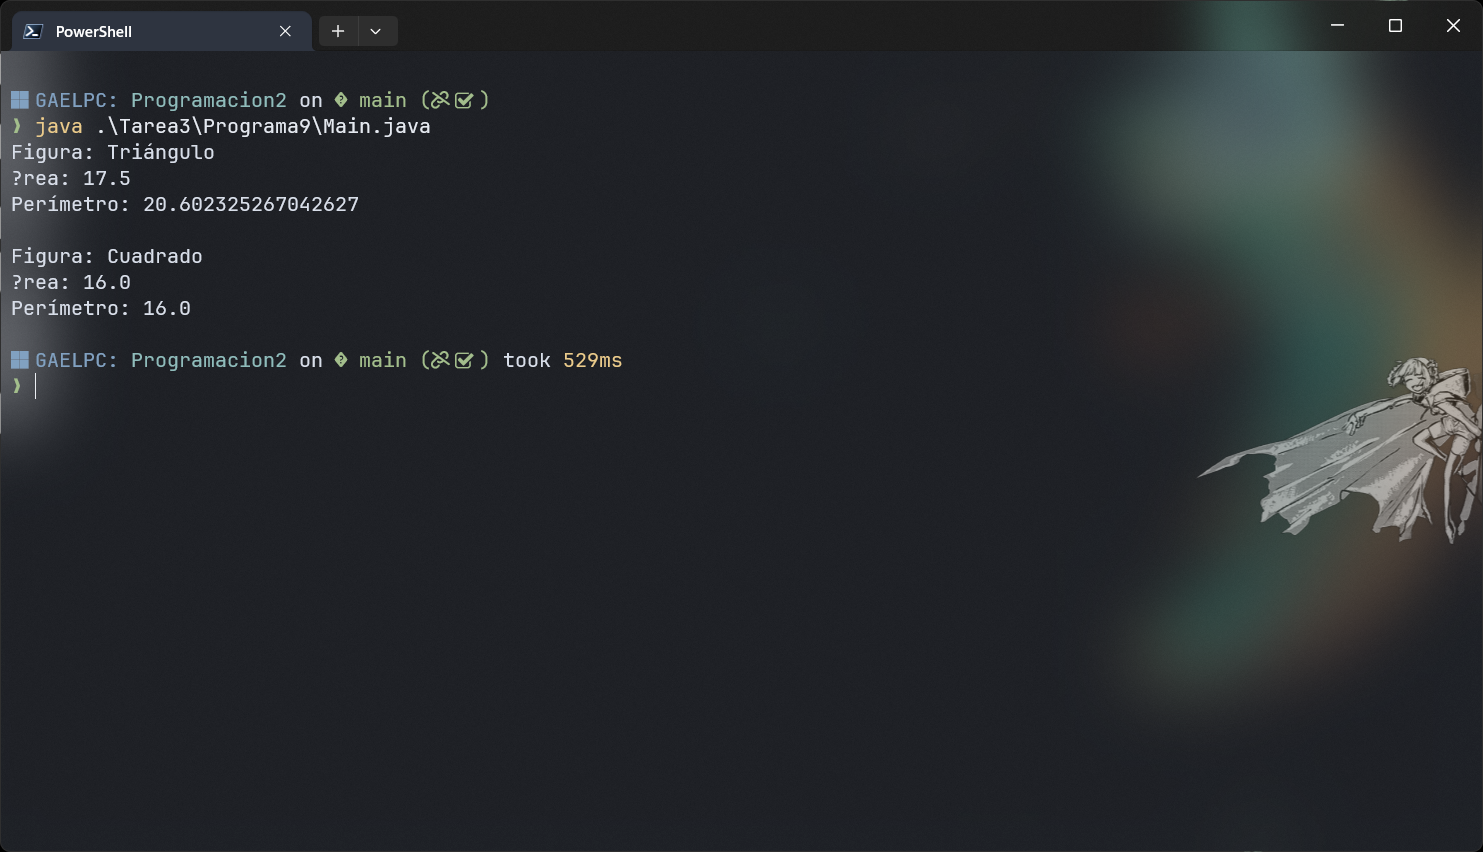
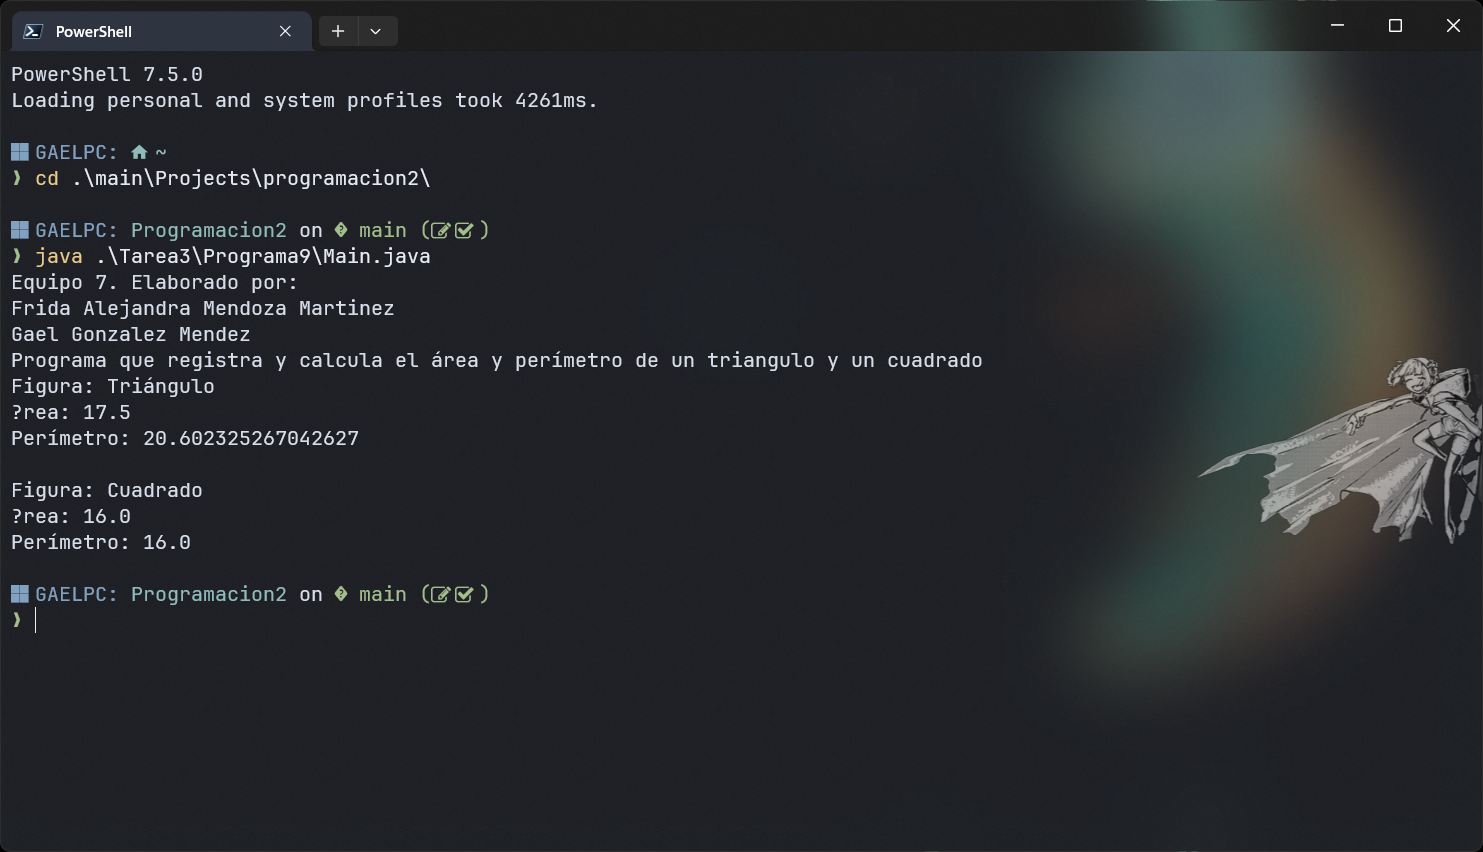
Correcciones - falta de nombre

diff --git a/Tarea3/Programa9/Main.java b/Tarea3/Programa9/Main.java
@@ -4,6 +4,12 @@ public class Main {
     public static void main(String[] args) {
         Terminal terminal = new Terminal();
 
+        terminal.Print("Equipo 7. Elaborado por:");
+        terminal.Print("Frida Alejandra Mendoza Martinez");
+        terminal.Print("Gael Gonzalez Mendez");
+
+        terminal.Print("Programa que registra y calcula el área y perímetro de un triangulo y un cuadrado");
+
         // Crear un triángulo
         double base = 5, height = 7;
         Triangle triangle = new Triangle("Triángulo", base, height);
